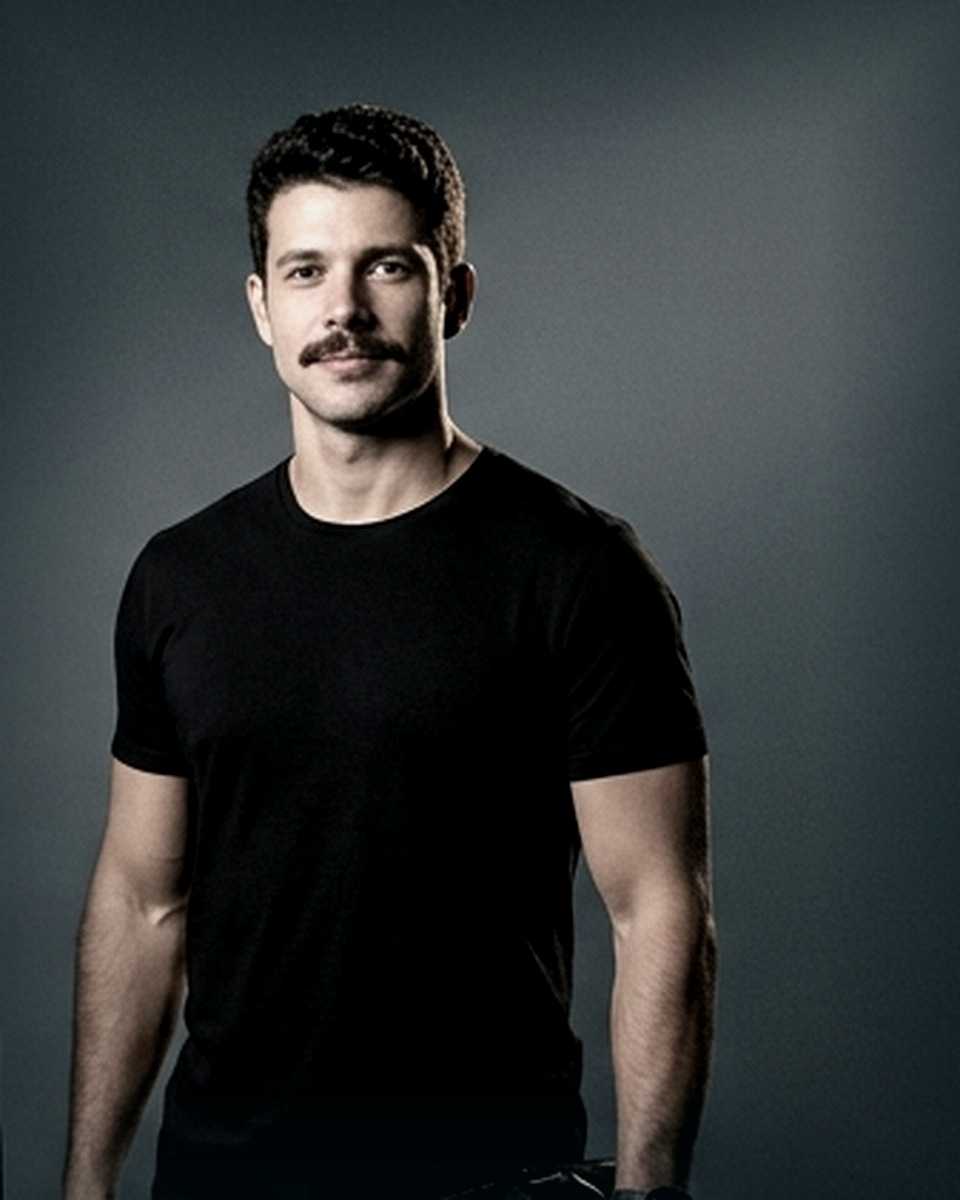
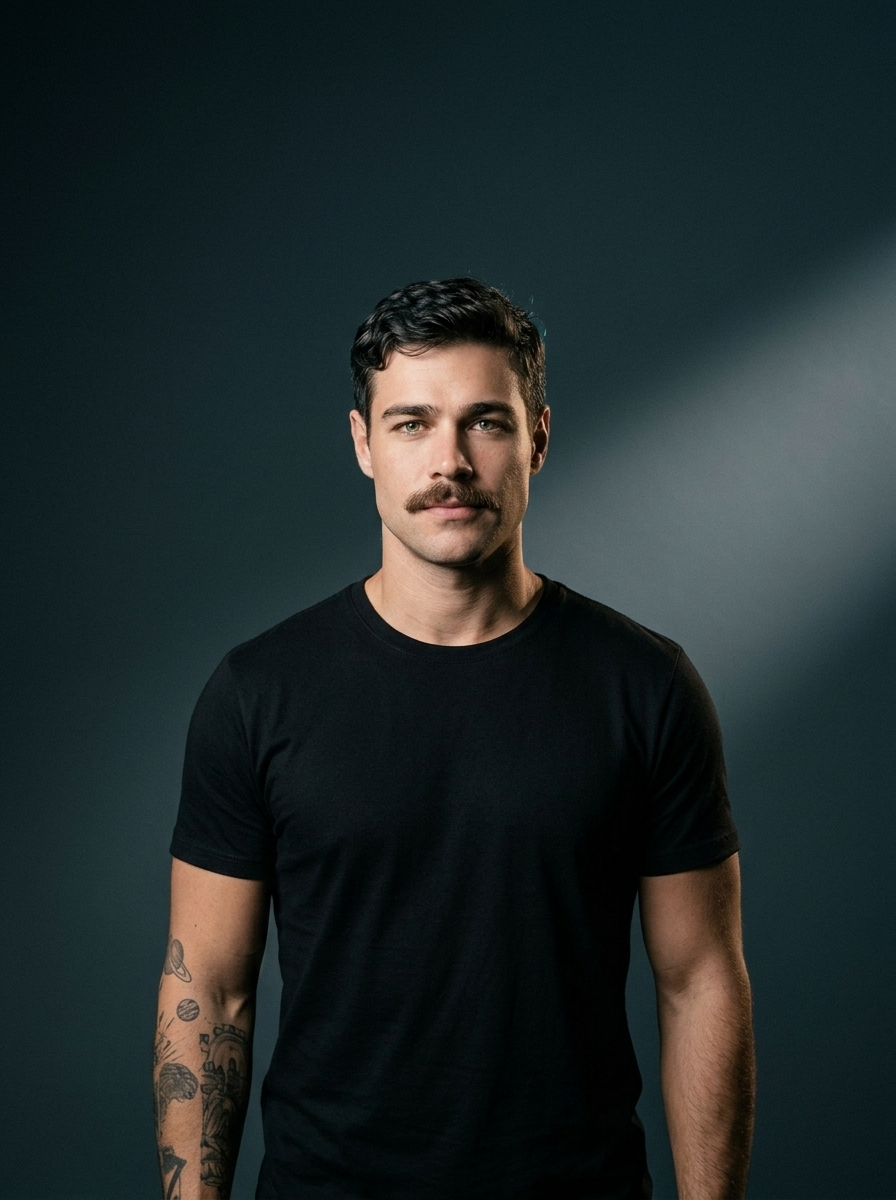
feat: atualiza lideranca da avanza com retratos reais e hero em silhueta do grupo

diff --git a/src/components/SubPages.tsx b/src/components/SubPages.tsx
@@ -315,62 +315,66 @@ export const StudioPage: React.FC<{
         </div>
       </section>
 
-      {/* Precursores / Founders Section (William Del Barrio & Higor Freitas Alves) */}
+      {/* Liderança Section (William Del Barrio, Higor Freitas, Clara Tuetto & Christian Hideyuki) */}
       <section className="bg-white px-[1.625rem] pb-24 pt-6 text-black max-[767px]:pb-14">
         <div className="border-t border-black/12 pt-14">
           <div className="mb-12 flex flex-col justify-between gap-4 md:flex-row md:items-end">
-            <Eyebrow label="Precursores" tone="dark" />
-            <p className="t-body max-w-[30rem] text-black/65">
-              Duas trajetórias complementares — estética autoral em chiaroscuro e disciplina cinematográfica de campo — reunidas para construir ecossistemas naturais.
+            <Eyebrow label="Liderança" tone="dark" />
+            <p className="t-body max-w-[34rem] text-black/65">
+              Fundação e direção integradas — estética autoral, audiovisual, estratégia e execução reunidos para construir ecossistemas naturais de crescimento.
             </p>
           </div>
 
-          <div className="grid grid-cols-1 gap-10 md:grid-cols-2">
-            {STUDIO_CONTENT.founders.map((founder) => (
+          <div className="grid grid-cols-1 gap-8 sm:grid-cols-2 lg:grid-cols-4">
+            {STUDIO_CONTENT.founders.map((member) => (
               <article
-                key={founder.name}
+                key={member.name}
                 className="group flex flex-col"
               >
                 <div className="relative aspect-[4/5] w-full overflow-hidden bg-[#0A1115]">
                   <img
-                    src={founder.photo}
-                    alt={founder.name}
+                    src={member.photo}
+                    alt={member.name}
                     loading="lazy"
                     className="h-full w-full object-cover object-top transition-transform duration-700 ease-out-expo group-hover:scale-[1.03]"
                   />
                 </div>
-                <div className="mt-5 flex items-baseline justify-between gap-4 border-t border-black/12 pt-4">
+                <div className="mt-5 flex flex-col gap-2 border-t border-black/12 pt-4">
                   <div>
-                    <h3 className="text-[1.45rem] font-medium tracking-[-0.02em] text-black">
-                      {founder.name}
+                    <h3 className="text-[1.28rem] font-medium tracking-[-0.02em] text-black">
+                      {member.name}
                     </h3>
                     <p className="t-small-regular mt-1 text-[#005A7A]">
-                      {founder.role}
+                      {member.role}
                     </p>
                   </div>
-                  <div className="flex items-center gap-3">
-                    <a
-                      href={founder.instagram}
-                      target="_blank"
-                      rel="noopener noreferrer"
-                      className="t-small hover-underline text-black/75 hover:text-black"
-                    >
-                      {founder.handle}
-                    </a>
-                    {founder.website && (
-                      <a
-                        href={founder.website}
-                        target="_blank"
-                        rel="noopener noreferrer"
-                        className="t-small hover-underline text-[#008DCD]"
-                      >
-                        Site
-                      </a>
-                    )}
-                  </div>
+                  {(member.instagram || member.website) && (
+                    <div className="flex items-center gap-3 pt-0.5">
+                      {member.instagram && member.handle && (
+                        <a
+                          href={member.instagram}
+                          target="_blank"
+                          rel="noopener noreferrer"
+                          className="t-small hover-underline text-black/75 hover:text-black"
+                        >
+                          {member.handle}
+                        </a>
+                      )}
+                      {member.website && (
+                        <a
+                          href={member.website}
+                          target="_blank"
+                          rel="noopener noreferrer"
+                          className="t-small hover-underline text-[#008DCD]"
+                        >
+                          Site
+                        </a>
+                      )}
+                    </div>
+                  )}
                 </div>
-                <p className="t-text mt-3 max-w-[34rem] text-black/65">
-                  {founder.bio}
+                <p className="t-text mt-3 text-black/65">
+                  {member.bio}
                 </p>
               </article>
             ))}

diff --git a/src/data/avanzaContent.ts b/src/data/avanzaContent.ts
@@ -206,7 +206,7 @@ export const PROJECTS: ProjectCase[] = [
     quote: {
       text: 'O verdadeiro profissionalismo não grita. Quando a imagem atinge o mesmo nível técnico do produto, a autoridade se estabelece em segundos.',
       author: 'William Del Barrio',
-      role: 'Direção de Arte & Imagem, avanza',
+      role: 'Fundador · Direção de Arte & Imagem, avanza',
     },
   },
   {
@@ -270,8 +270,8 @@ export const PROJECTS: ProjectCase[] = [
     ],
     quote: {
       text: 'Não forçamos sua empresa a caber em um molde pronto. Desenhamos o estúdio e o ecossistema ao redor do que o seu negócio realmente precisa.',
-      author: 'Higor Freitas Alves',
-      role: 'Audiovisual & Execução, avanza',
+      author: 'Higor Freitas',
+      role: 'Diretor · Audiovisual & Execução, avanza',
     },
   },
 ]
@@ -408,21 +408,39 @@ export const STUDIO_CONTENT = {
   founders: [
     {
       name: 'William Del Barrio',
-      role: 'Co-fundador · Direção de Arte, Imagem & Essencialismo',
+      role: 'Fundador · Direção de Arte, Imagem & Estratégia',
       handle: '@william.delbarrio',
       instagram: 'https://www.instagram.com/william.delbarrio/',
       website: 'https://williamdelbarrio.com/',
       photo: '/images/founder-william.jpg',
-      bio: 'Especialista em fotografia conceitual, direção de arte e posicionamento visual de marca. Guiado pela estética da competência e pela luz precisa do chiaroscuro, remove o ruído digital para colocar foco absoluto na essência mais potente de cada empresa.',
+      bio: 'Fundador da avanza. Especialista em fotografia conceitual, direção de arte e posicionamento visual de marca. Guiado pela estética da competência e pela luz precisa do chiaroscuro, remove o ruído digital para colocar foco absoluto na essência de cada empresa.',
     },
     {
-      name: 'Higor Freitas Alves',
-      role: 'Co-fundador · Audiovisual, Estratégia & Execução de Campo',
+      name: 'Higor Freitas',
+      role: 'Diretor · Audiovisual, Estratégia & Execução',
       handle: '@freitas.hgr',
       instagram: 'https://www.instagram.com/freitas.hgr',
       website: '',
       photo: '/images/founder-higor.jpg',
-      bio: 'Filmmaker comercial e estrategista de execução orientado por disciplina, ritmo e constância. Une precisão de campo e narrativa audiovisual cinematográfica para transformar estratégia de marca em presença viva e resultado mensurável.',
+      bio: 'Diretor da avanza. Orientado por disciplina, ritmo e constância, une precisão de campo e narrativa audiovisual cinematográfica para transformar estratégia de marca em presença viva e resultado mensurável.',
+    },
+    {
+      name: 'Clara Tuetto',
+      role: 'Diretora · Estratégia & Direção Criativa',
+      handle: '',
+      instagram: '',
+      website: '',
+      photo: '/images/director-clara.jpg',
+      bio: 'Diretora da avanza. Conduz a escuta estratégica, a direção criativa e a coerência entre identidade, narrativa e experiência — assegurando que cada marca se comunique com clareza, elegância e verdade.',
+    },
+    {
+      name: 'Christian Hideyuki',
+      role: 'Diretor · Ecossistema & Performance',
+      handle: '',
+      instagram: '',
+      website: '',
+      photo: '/images/director-christian.jpg',
+      bio: 'Diretor da avanza. Atua na arquitetura operacional, gestão de performance e evolução dos ecossistemas digitais, conectando planejamento estratégico a crescimento previsível e mensurável.',
     },
   ],
   manifestoNote: {
